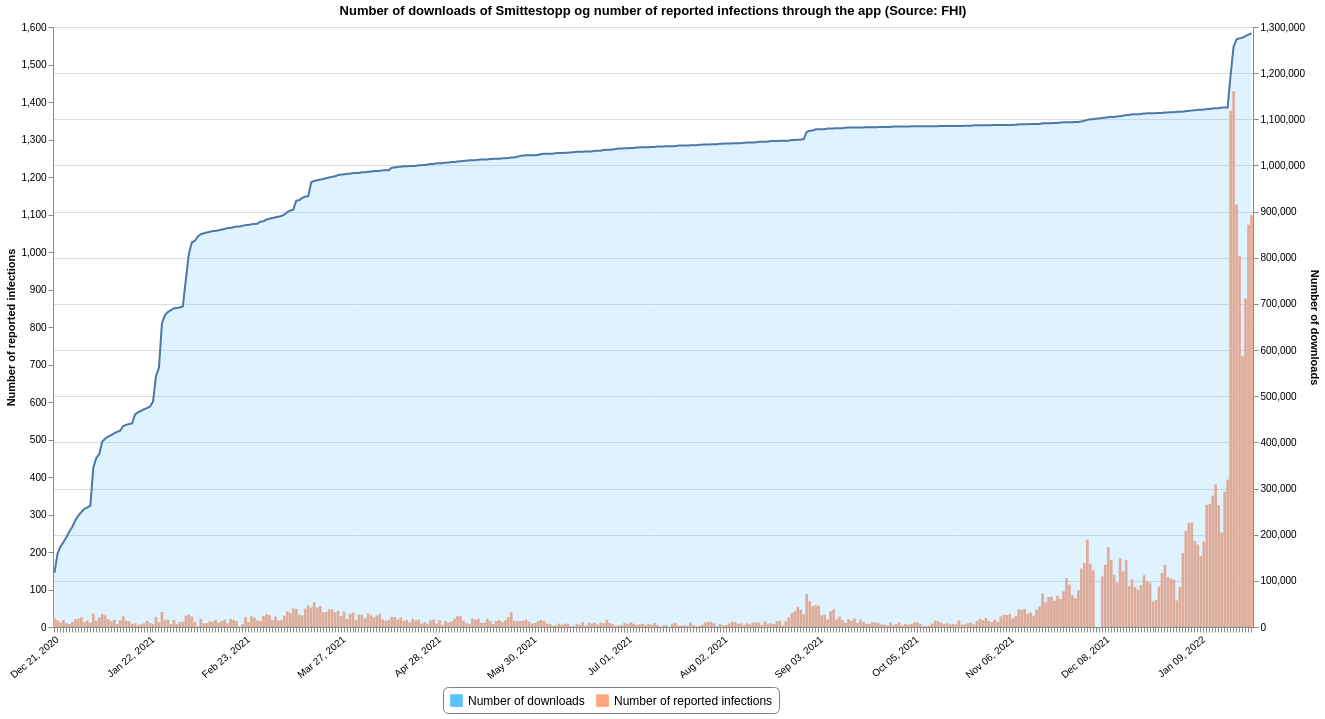
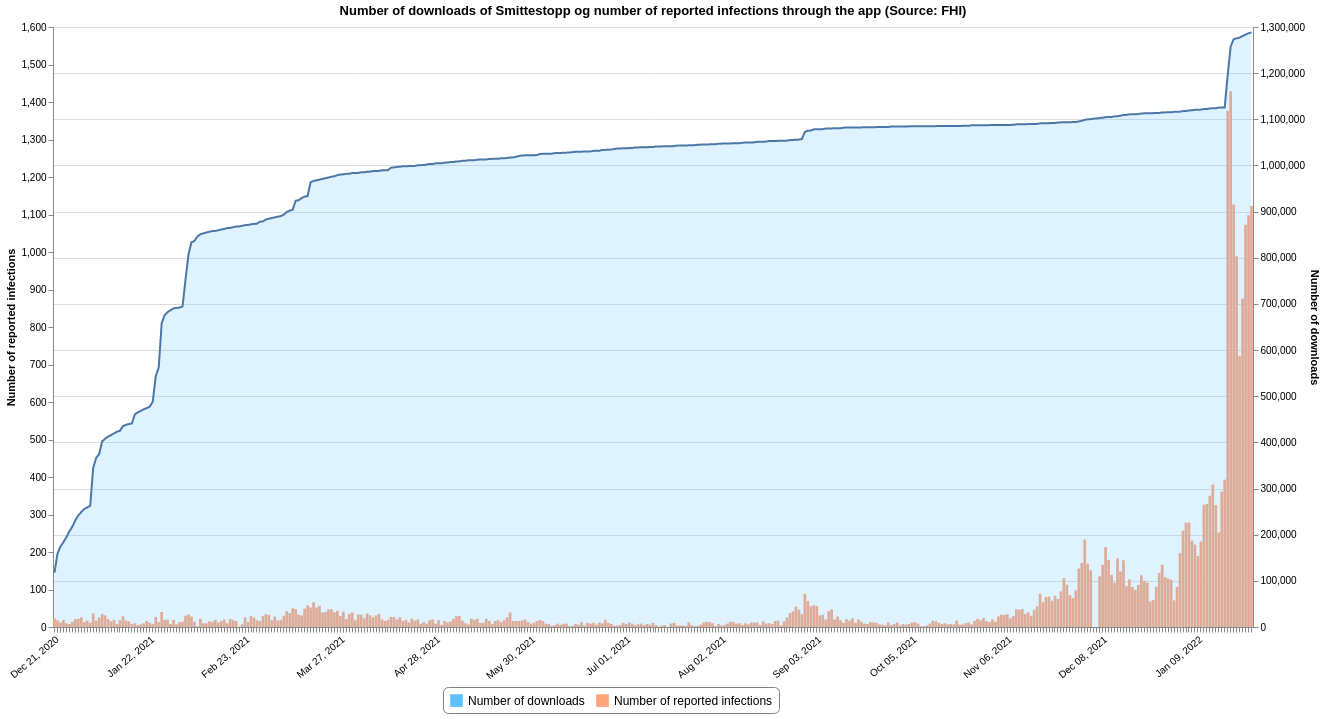
Updated 2022-01-28 10:00

diff --git a/README.md b/README.md
@@ -17,7 +17,7 @@ This repository contains datasets of daily time-series data related to COVID-19 
 |[Tested Lab](#tested_labcsv)|FHI|2022-01-27 13:20:47+01:00|[<center>csv</center>](https://raw.githubusercontent.com/frefrik/covid19norge-data/main/data/tested_lab.csv)|[<center>preview</center>](data/tested_lab.csv)|
 |[Transport](#transportcsv)|FHI|2021-09-24 23:10:46+02:00|[<center>csv</center>](https://raw.githubusercontent.com/frefrik/covid19norge-data/main/data/transport.csv)|[<center>preview</center>](data/transport.csv)|
 |[Vaccine Doses](#vaccine_dosescsv)|FHI|2022-01-27 13:20:53+01:00|[<center>csv</center>](https://raw.githubusercontent.com/frefrik/covid19norge-data/main/data/vaccine_doses.csv)|[<center>preview</center>](data/vaccine_doses.csv)|
-|[Smittestopp](#smittestoppcsv)|FHI|2022-01-27 12:20:48+01:00|[<center>csv</center>](https://raw.githubusercontent.com/frefrik/covid19norge-data/main/data/smittestopp.csv)|[<center>preview</center>](data/smittestopp.csv)|
+|[Smittestopp](#smittestoppcsv)|FHI|2022-01-28 10:00:47+01:00|[<center>csv</center>](https://raw.githubusercontent.com/frefrik/covid19norge-data/main/data/smittestopp.csv)|[<center>preview</center>](data/smittestopp.csv)|
 |[Omicron](#omicroncsv)|FHI|2021-12-22 10:11:05+01:00|[<center>csv</center>](https://raw.githubusercontent.com/frefrik/covid19norge-data/main/data/omicron.csv)|[<center>preview</center>](data/omicron.csv)|
 <!-- table ends -->
 
